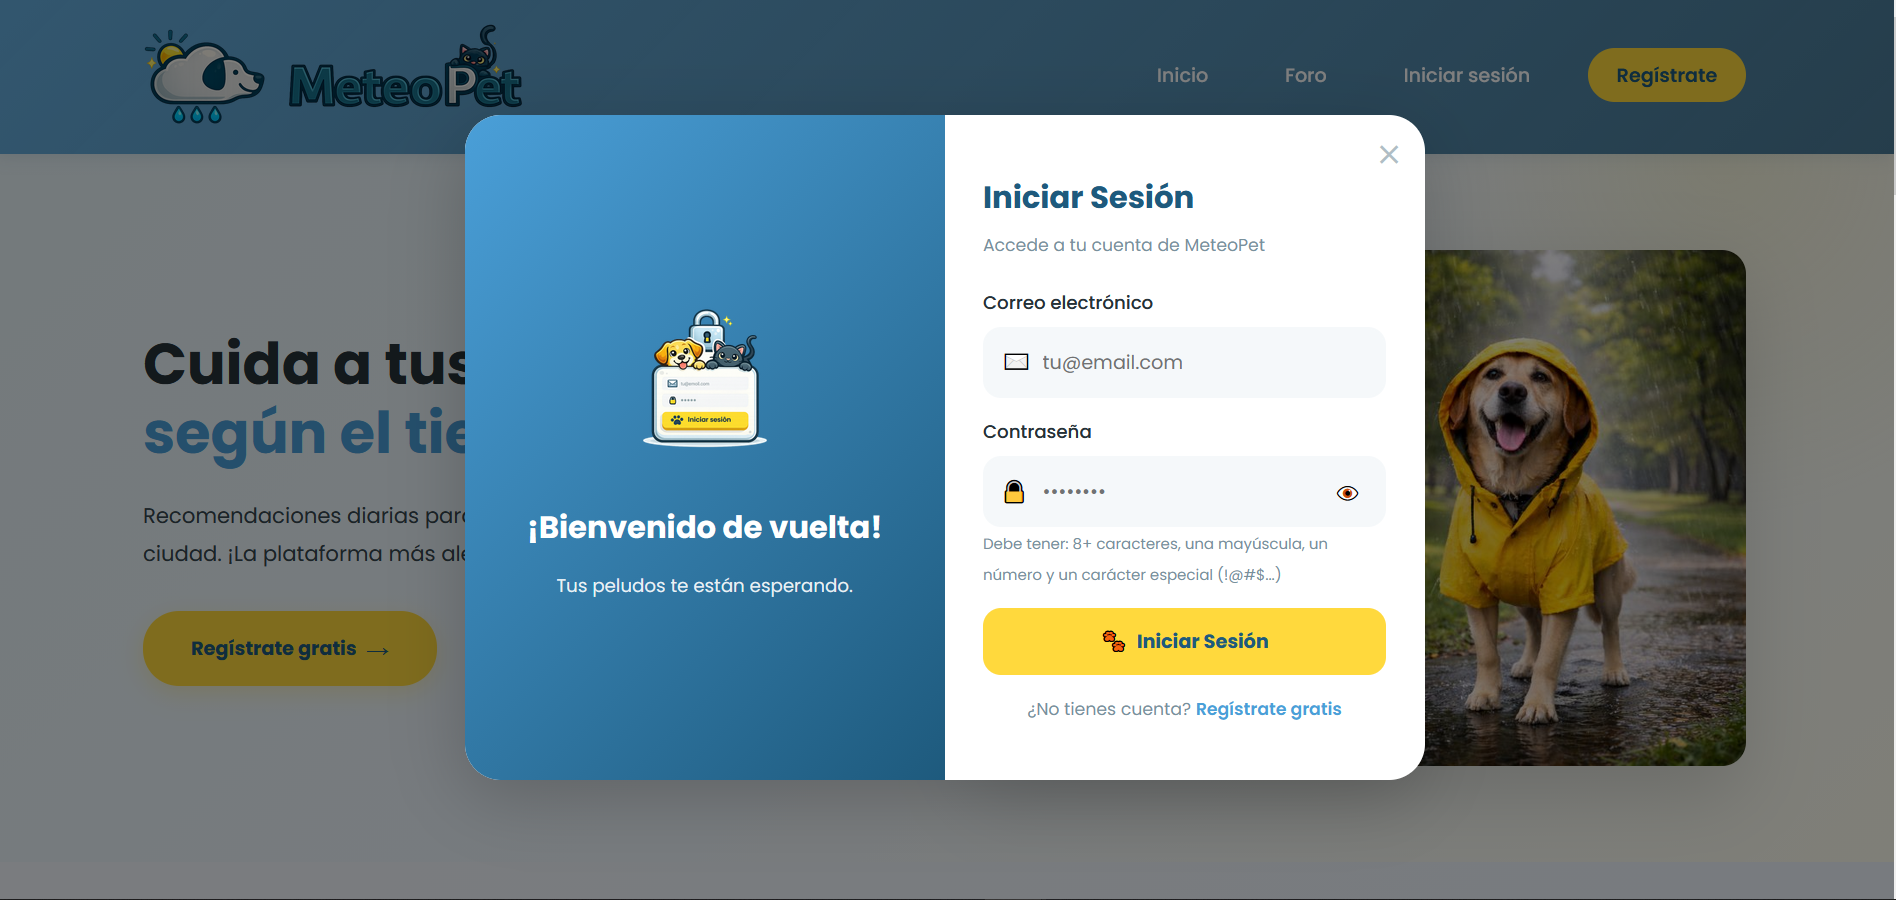
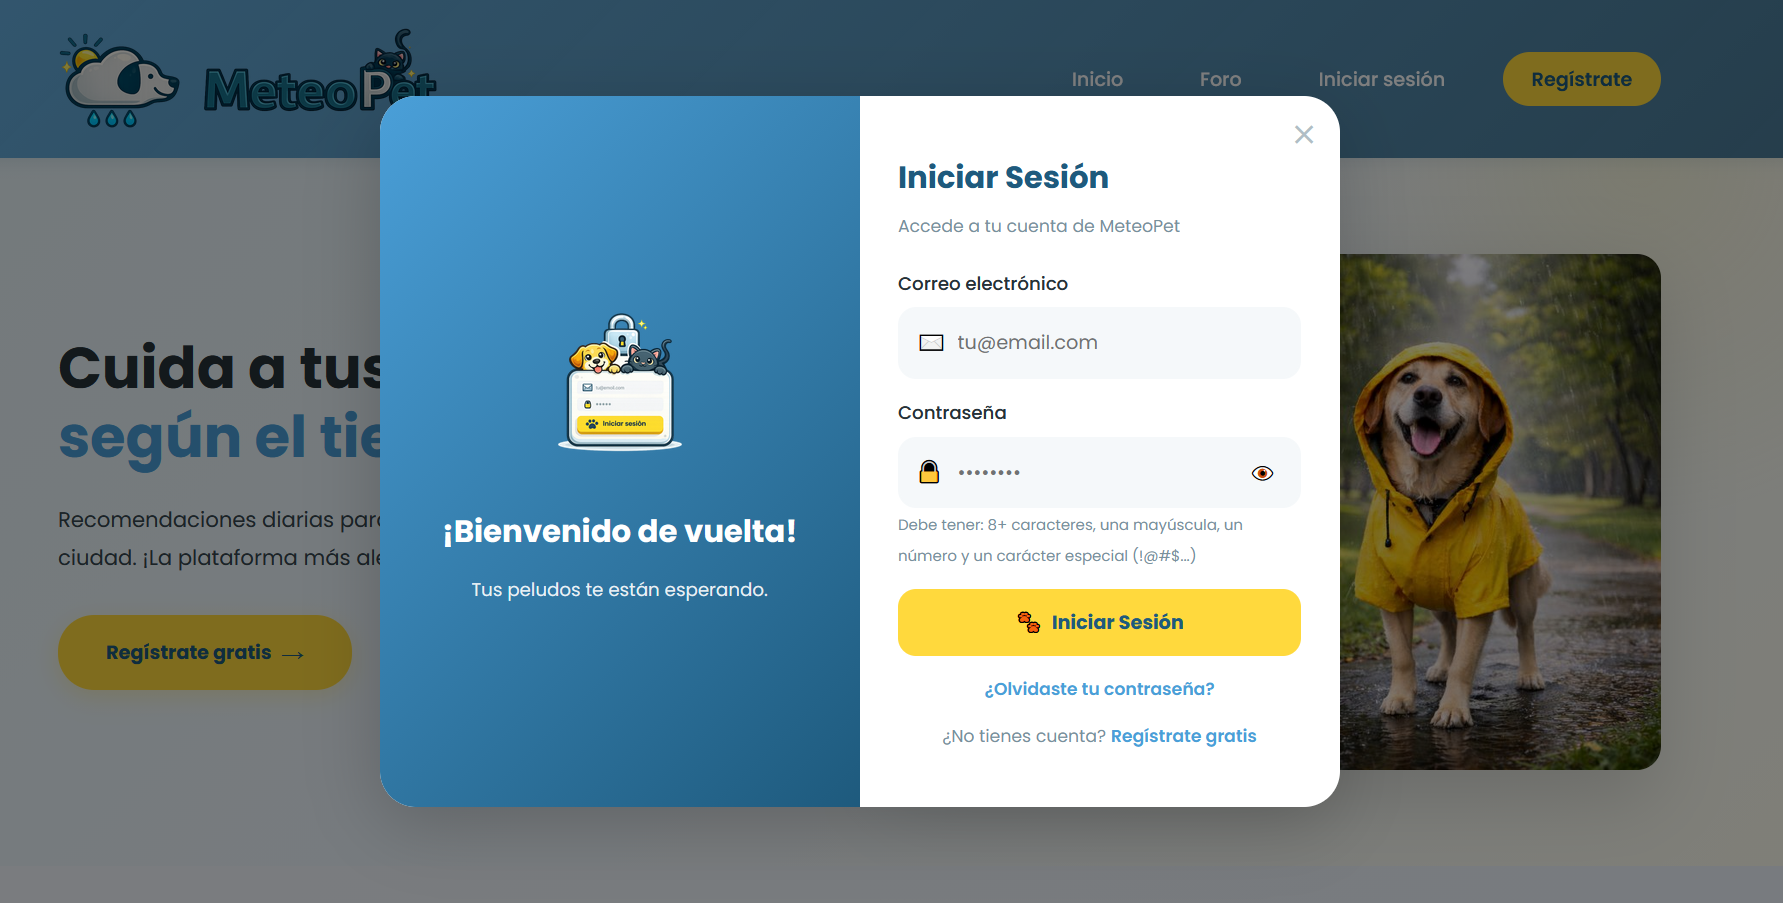
corrección errores en imágenes y código

diff --git a/public/assets/js/index.js b/public/assets/js/index.js
@@ -514,3 +514,11 @@ document.querySelectorAll('.btn-toggle-pass').forEach(function (btn) {
         }
     });
 });
+
+///// Abre el modal de contacto al pulsar ¿Olvidaste tu contraseña? /////
+document.querySelector('#btn-recuperar-pass').addEventListener('click', function (e) {
+    e.preventDefault();
+    cerrarModalLogin();
+    document.querySelector('#contacto-tipo').value = 'problema';
+    abrirModalContacto();
+});

diff --git a/public/index.html b/public/index.html
@@ -267,6 +267,9 @@
                         <span>🐾</span> Iniciar Sesión
                     </button>
                 </form>
+                <p class="register-link">
+                    <a href="#" id="btn-recuperar-pass">¿Olvidaste tu contraseña?</a>
+                </p>
 
                 <p class="register-link">
                     ¿No tienes cuenta? <a href="#" id="btn-abrir-registro">Regístrate gratis</a>